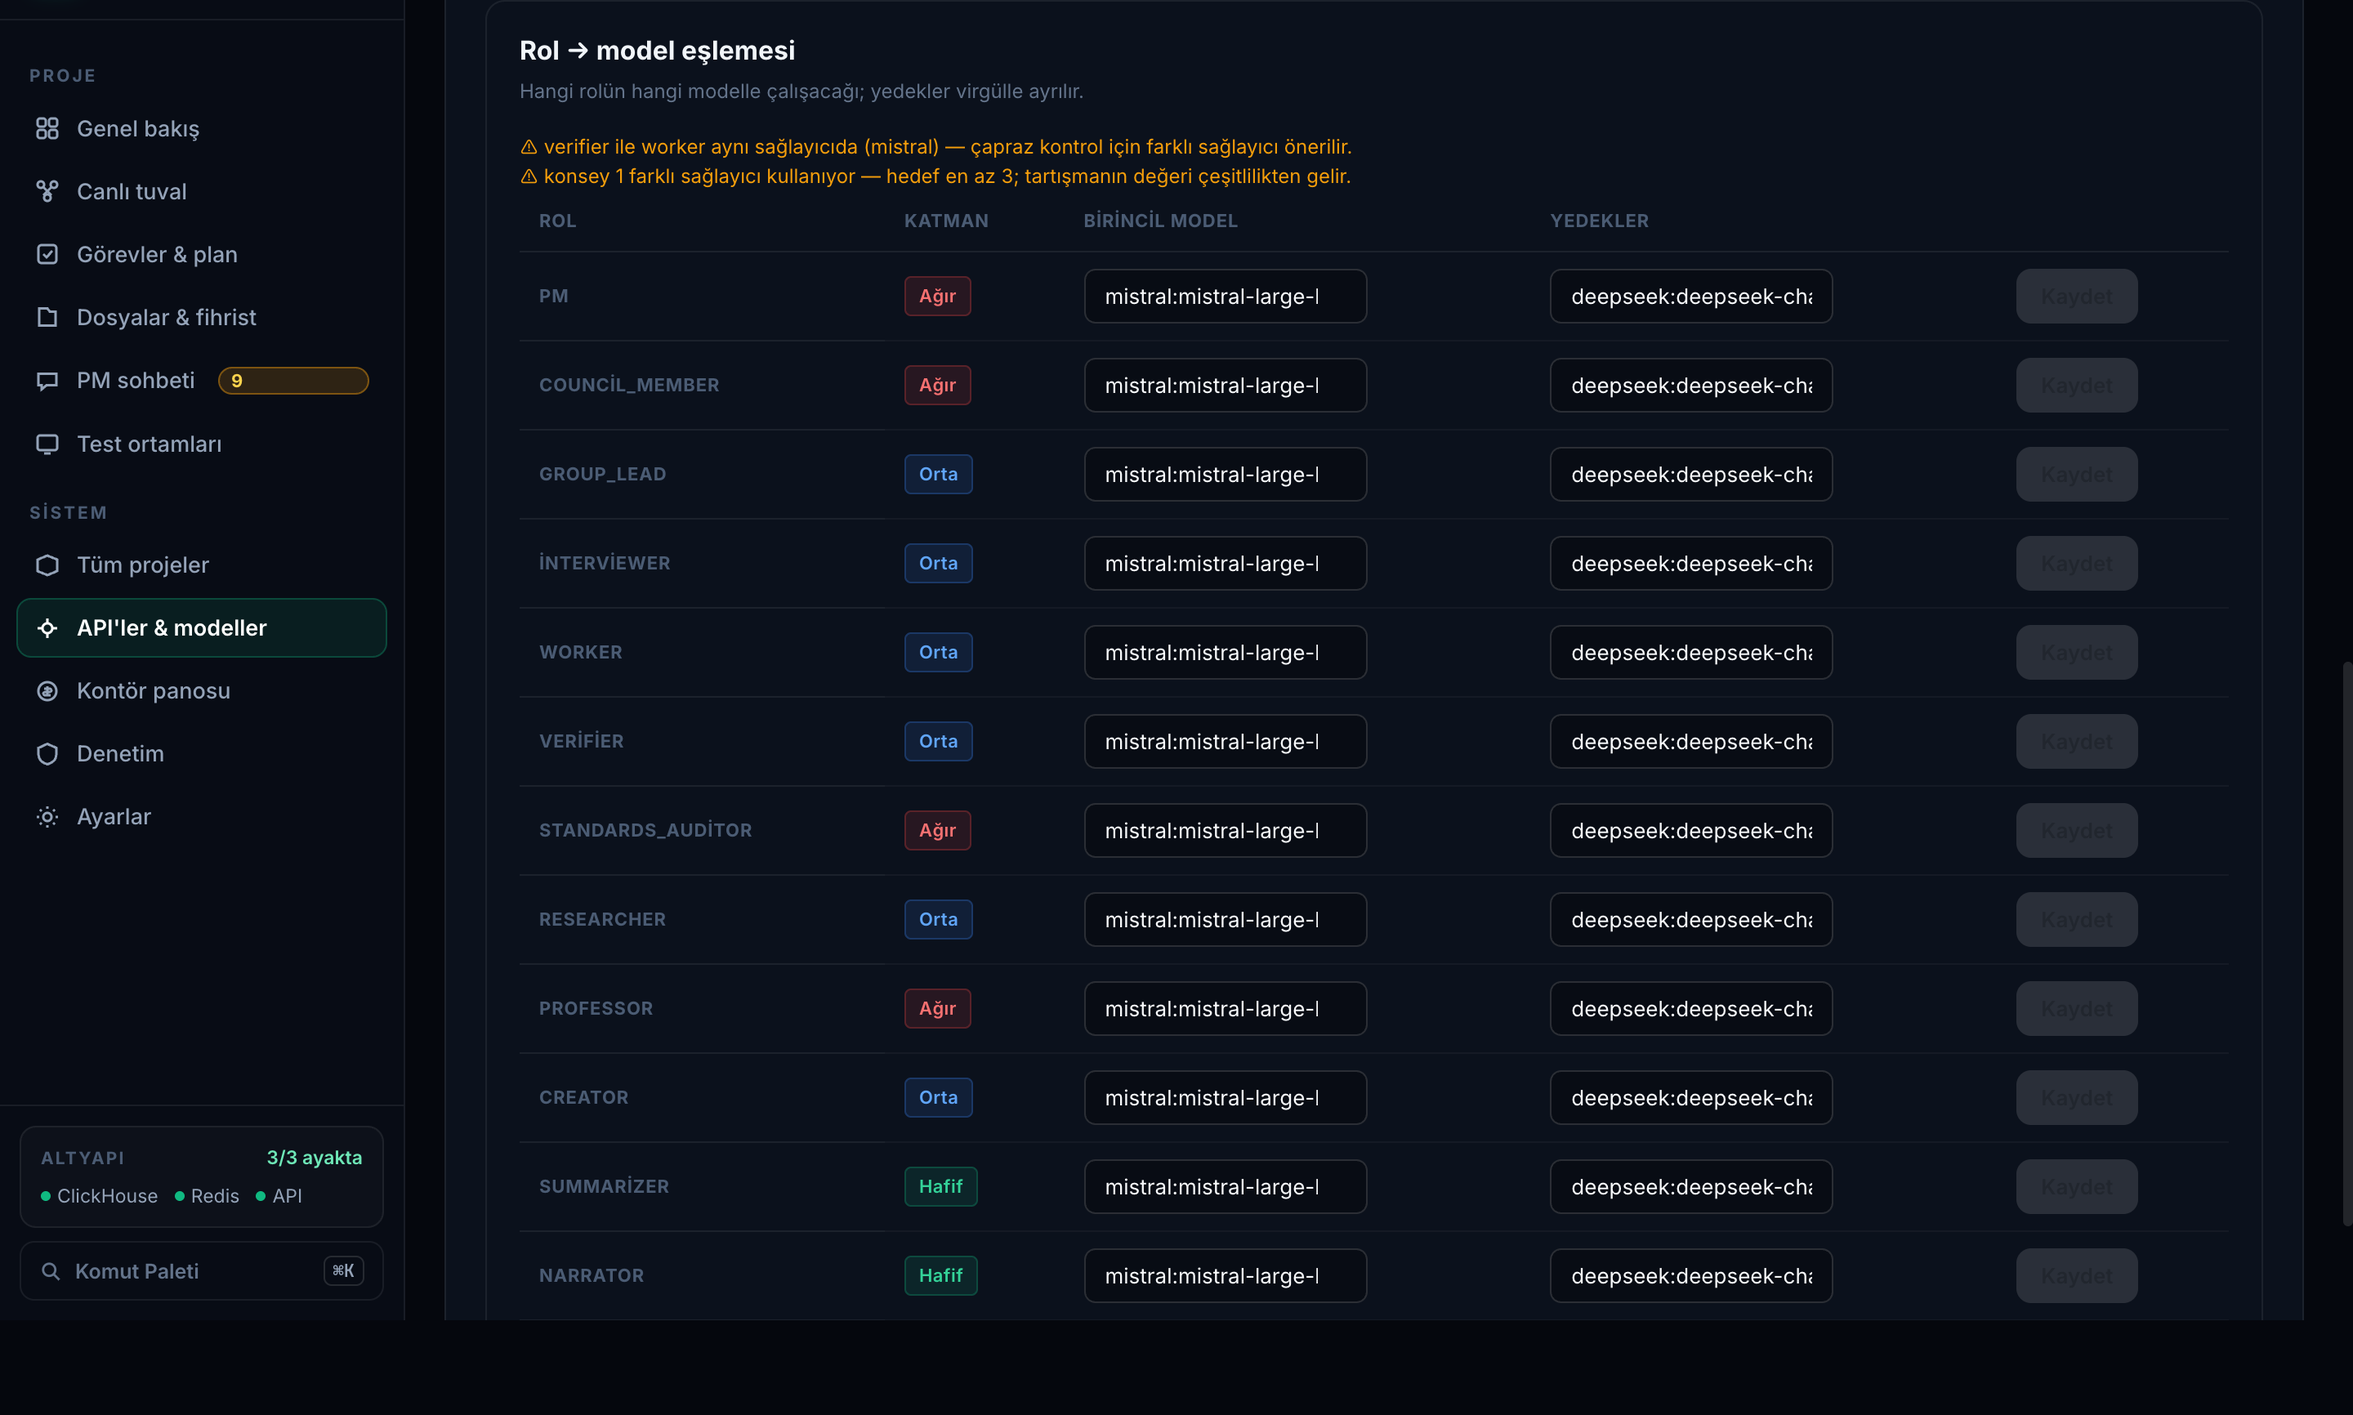
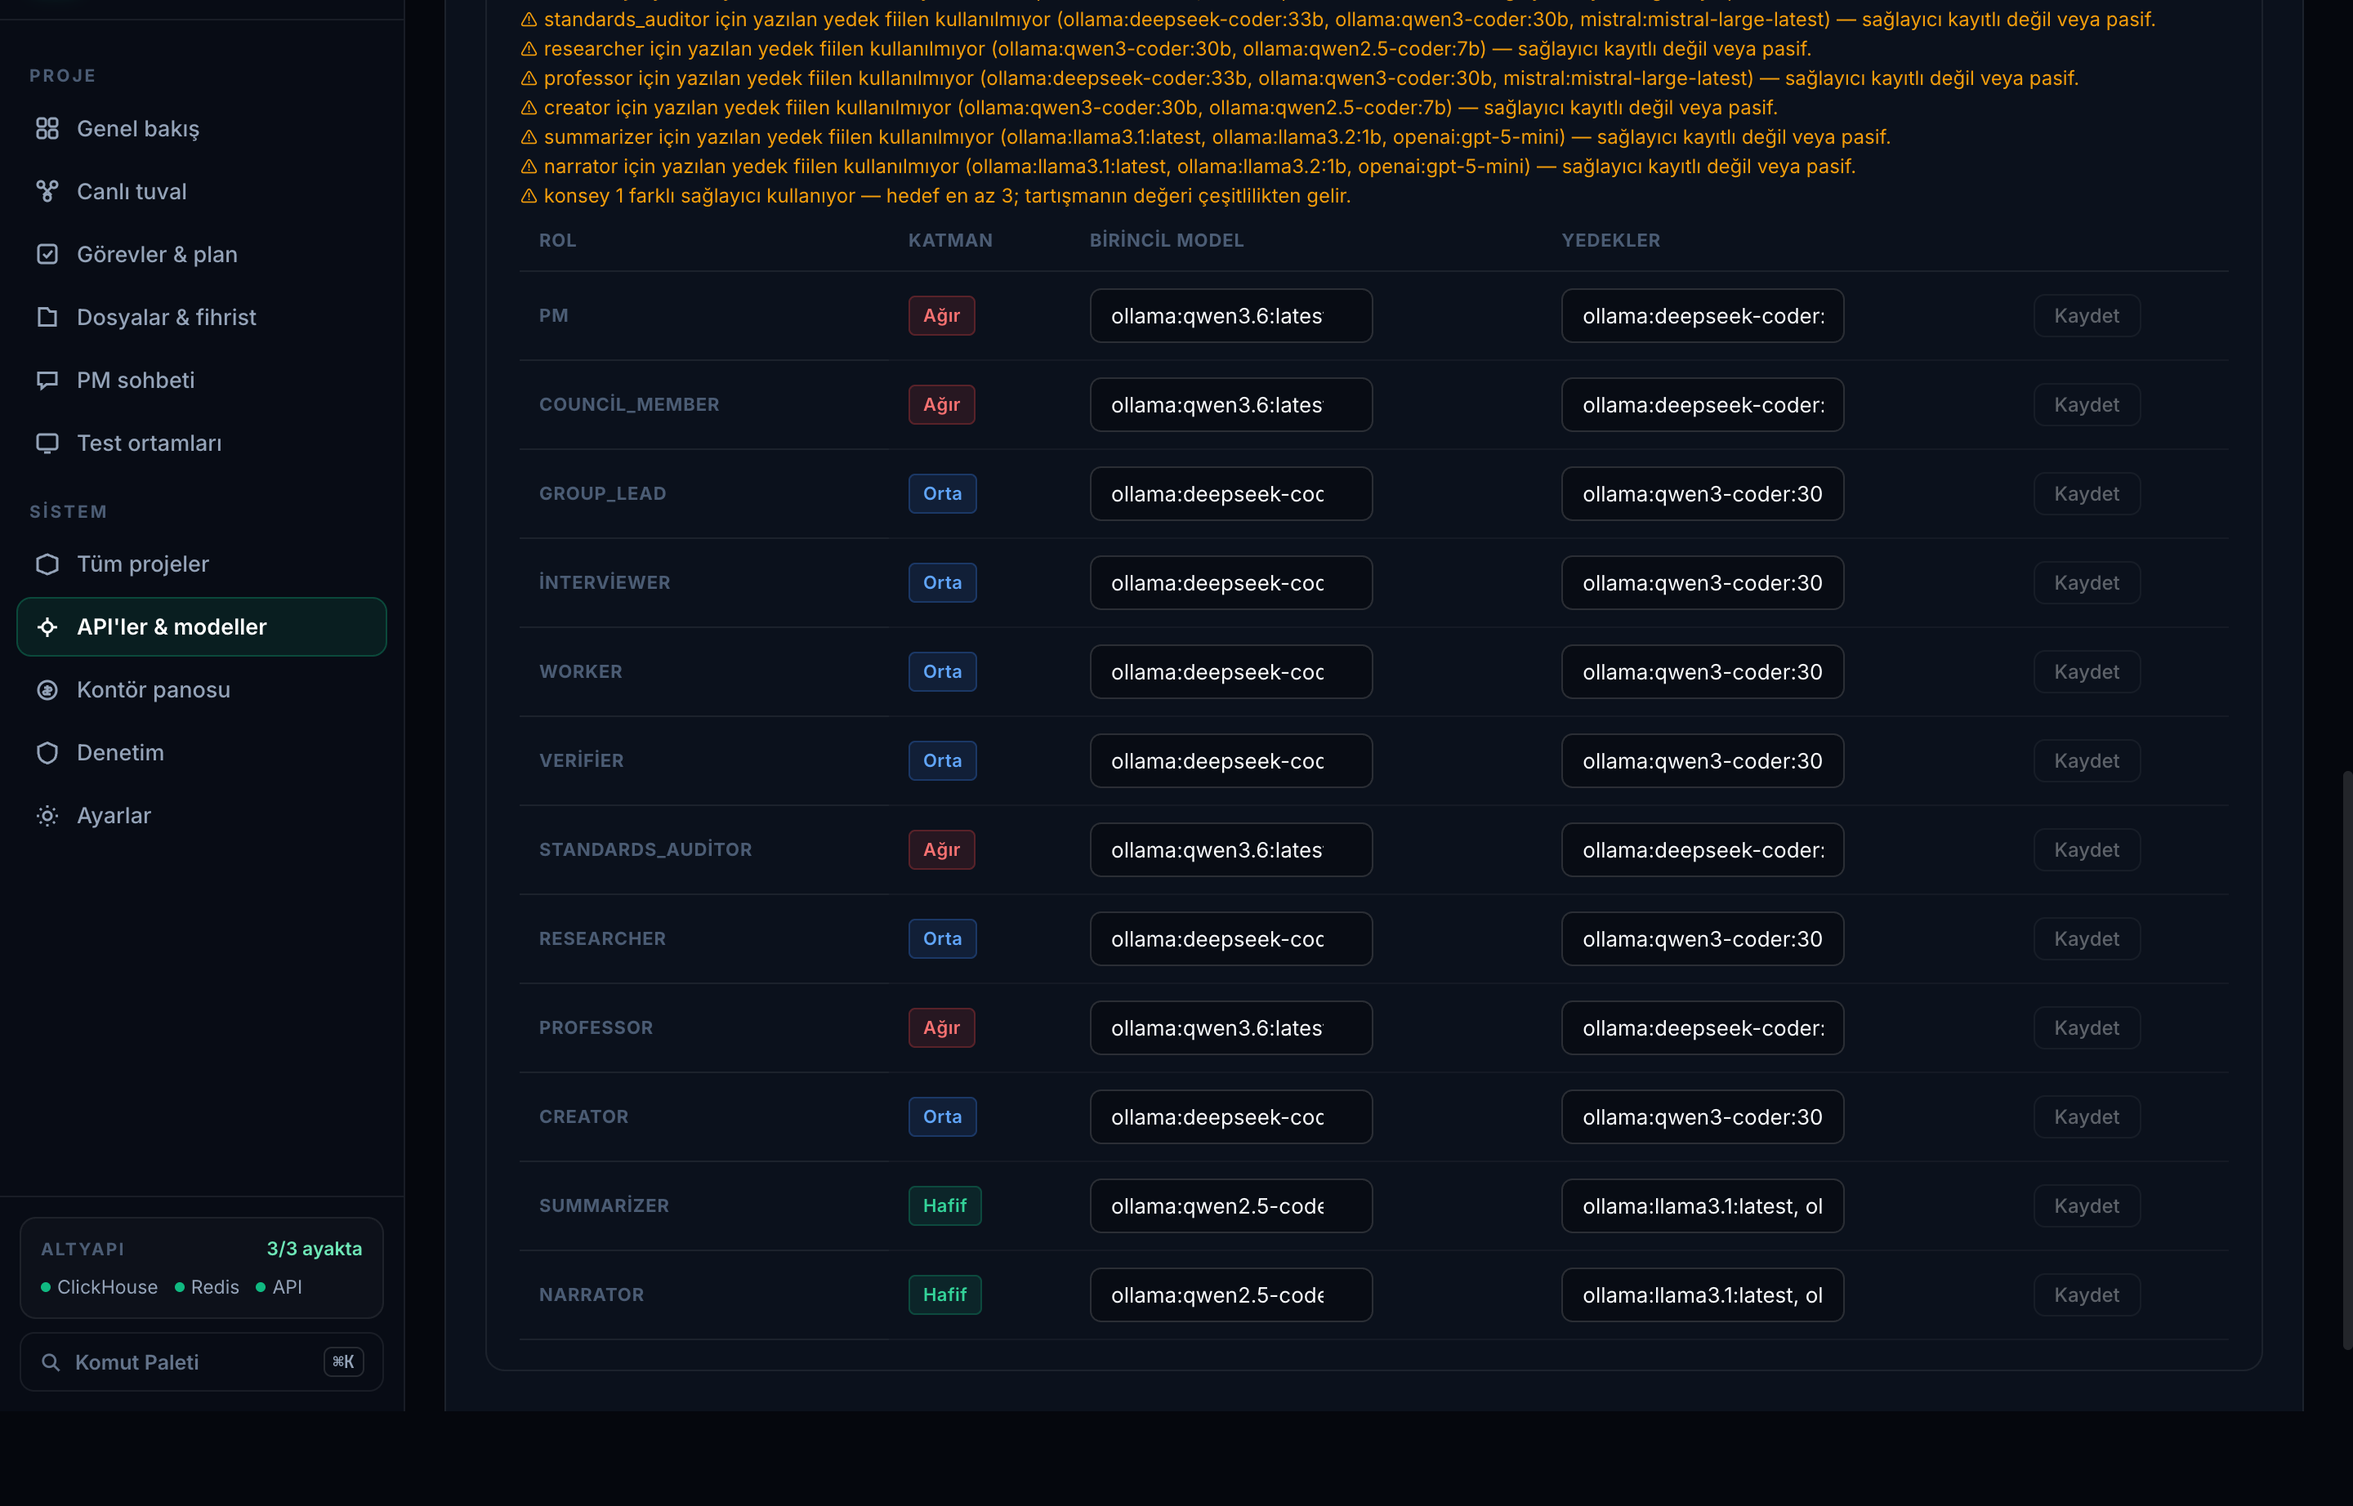
sweeper: workspace sweeper servisi, dry-run destegi, unit testler ve thinking guard
- Thinking Guard: OpenAiAdapter'a <think> bloklarini temizleyen stripThinkingBlocks eklendi.
- Workspace Sweeper: ClickHouse aktif projeleriyle karsilastiran yetim dizin tarayicisi yazildi.
- Guvenlik: Path traversal ve SAFE_SLUG korumalari eklendi.
- Testler: 4 adet kapsamli birim testi yazildi ve vitest ile dogrulandi.

diff --git a/apps/server/src/workspace-sweeper.ts b/apps/server/src/workspace-sweeper.ts
@@ -1,0 +1,124 @@
+import { readdir, rm, stat } from 'node:fs/promises';
+import { isAbsolute, join, resolve } from 'node:path';
+import type { ClickHouseClient } from '@ww/db';
+import { SAFE_SLUG } from './runtime-context.js';
+
+export interface OrphanWorkspaceReport {
+  readonly workspaceBase: string;
+  readonly activeSlugs: readonly string[];
+  readonly orphanFolders: readonly string[];
+  readonly dryRun: boolean;
+  readonly deletedFolders: readonly string[];
+}
+
+export interface SweepOptions {
+  readonly workspaceBase: string;
+  readonly dryRun: boolean;
+  readonly confirm?: boolean;
+}
+
+/**
+ * ClickHouse'taki güncel aktif projeleri sorgular.
+ * 'archived' statüsündeki veya DB'de hiç olmayan projeler yetim sayılır.
+ */
+export async function getActiveProjectSlugs(ch: ClickHouseClient): Promise<Set<string>> {
+  const result = await ch.query({
+    query: `SELECT slug, status FROM (
+      SELECT project_id, slug, status FROM projects ORDER BY version DESC LIMIT 1 BY project_id
+    ) WHERE status != 'archived'`,
+    format: 'JSONEachRow',
+  });
+  const rows = (await result.json()) as { slug: string; status: string }[];
+  return new Set(rows.map((r) => r.slug));
+}
+
+/**
+ * Workspace dizinindeki yetim (projesi olmayan veya arşivlenmiş) klasörleri tespit eder.
+ * Path traversal koruması: SAFE_SLUG kuralına uymayan veya kök dışına sızmaya çalışan klasörler güvenle reddedilir.
+ */
+export async function inspectWorkspaceOrphans(
+  workspaceBase: string,
+  activeSlugs: Set<string>,
+): Promise<string[]> {
+  if (!isAbsolute(workspaceBase)) {
+    throw new Error(`workspace kökü mutlak yol olmalıdır: '${workspaceBase}'`);
+  }
+
+  let entries: string[] = [];
+  try {
+    entries = await readdir(workspaceBase);
+  } catch (err: unknown) {
+    if (err && typeof err === 'object' && 'code' in err && (err as { code: string }).code === 'ENOENT') {
+      return [];
+    }
+    throw err;
+  }
+
+  const orphans: string[] = [];
+
+  for (const entry of entries) {
+    if (entry.startsWith('.')) continue; // .git, .DS_Store vb. atla
+    if (!SAFE_SLUG.test(entry)) continue; // Geçersiz slug desenlerini atla
+
+    const fullPath = resolve(join(workspaceBase, entry));
+    // Path traversal koruması: Hedef yol workspaceBase dizini altında olmalıdır
+    if (!fullPath.startsWith(resolve(workspaceBase))) {
+      throw new Error(`Path traversal tespiti: '${entry}' workspace kökü dışına çıkamaz`);
+    }
+
+    const st = await stat(fullPath).catch(() => null);
+    if (!st || !st.isDirectory()) continue;
+
+    if (!activeSlugs.has(entry)) {
+      orphans.push(entry);
+    }
+  }
+
+  return orphans.sort();
+}
+
+/**
+ * Workspace süpürücüsü.
+ * `dryRun: true` (varsayılan) iken ASLA silme yapmaz, sadece silinecek adayları raporlar.
+ * Silme işlemi yalnız `dryRun: false` ve `confirm: true` açık onayıyla gerçekleşir.
+ */
+export async function sweepWorkspaces(
+  ch: ClickHouseClient,
+  options: SweepOptions,
+): Promise<OrphanWorkspaceReport> {
+  const activeSlugs = await getActiveProjectSlugs(ch);
+  const orphanFolders = await inspectWorkspaceOrphans(options.workspaceBase, activeSlugs);
+
+  if (options.dryRun || !options.confirm) {
+    return {
+      workspaceBase: options.workspaceBase,
+      activeSlugs: Array.from(activeSlugs).sort(),
+      orphanFolders,
+      dryRun: true,
+      deletedFolders: [],
+    };
+  }
+
+  const deletedFolders: string[] = [];
+
+  for (const folder of orphanFolders) {
+    if (!SAFE_SLUG.test(folder)) {
+      throw new Error(`Güvenlik ihlali: geçersiz slug '${folder}'`);
+    }
+    const targetDir = resolve(join(options.workspaceBase, folder));
+    if (!targetDir.startsWith(resolve(options.workspaceBase))) {
+      throw new Error(`Güvenlik ihlali: '${folder}' workspace dışına çıkamaz`);
+    }
+
+    await rm(targetDir, { recursive: true, force: true });
+    deletedFolders.push(folder);
+  }
+
+  return {
+    workspaceBase: options.workspaceBase,
+    activeSlugs: Array.from(activeSlugs).sort(),
+    orphanFolders,
+    dryRun: false,
+    deletedFolders,
+  };
+}

diff --git a/apps/panel/src/services/role-models.ts b/apps/panel/src/services/role-models.ts
@@ -12,7 +12,7 @@ export interface RoleModel {
 }
 
 // Sunucu tarafındaki kuralın aynısı; hatalı biçim ağa çıkmadan yakalanır.
-const MODEL_REF = /^[a-z0-9_-]+:[A-Za-z0-9._-]+$/;
+const MODEL_REF = /^[a-z0-9_-]+:[A-Za-z0-9._:-]+$/;
 
 function assertModelRef(value: string): string {
   const ref = value.trim();
@@ -52,17 +52,40 @@ const providerOf = (modelRef: string): string => modelRef.split(':')[0] ?? '';
  * önyargıyı kırar. Konsey üyeleri için hedef en az 3 farklı sağlayıcıdır.
  * Bunlar engelleyici değil uyarıdır; kullanıcı bilerek aksini seçebilir.
  */
-export function crossCheckWarnings(rows: readonly RoleModel[]): string[] {
+export function modelFamilyOf(modelRef: string, familyMap?: Record<string, string>): string {
+  if (familyMap && familyMap[modelRef]) return familyMap[modelRef];
+  const parts = modelRef.split(':');
+  const provider = parts[0] ?? '';
+  const model = parts[1] ?? '';
+  if (provider !== 'ollama') return provider;
+  // Ollama yerel model aileleri
+  if (model.startsWith('qwen3.6') || model.startsWith('qwen3.5')) return 'qwen35moe';
+  if (model.startsWith('qwen3-coder')) return 'qwen3moe';
+  if (model.startsWith('qwen2.5')) return 'qwen2';
+  if (model.startsWith('deepseek') || model.startsWith('llama')) return 'llama';
+  if (model.startsWith('gemma')) return 'gemma4';
+  if (model.startsWith('glm') || model.startsWith('viking')) return 'glm4moelite';
+  return model;
+}
+
+export function crossCheckWarnings(
+  rows: readonly RoleModel[],
+  familyMap?: Record<string, string>,
+): string[] {
   const configured = rows.filter((row) => row.configured && row.modelRef.trim().length > 0);
   const byRole = new Map(configured.map((row) => [row.role, row]));
   const warnings: string[] = [];
 
   const worker = byRole.get('worker');
   const verifier = byRole.get('verifier');
-  if (worker && verifier && providerOf(worker.modelRef) === providerOf(verifier.modelRef)) {
-    warnings.push(
-      `verifier ile worker aynı sağlayıcıda (${providerOf(worker.modelRef)}) — çapraz kontrol için farklı sağlayıcı önerilir.`,
-    );
+  if (worker && verifier) {
+    const workerFam = modelFamilyOf(worker.modelRef, familyMap);
+    const verifierFam = modelFamilyOf(verifier.modelRef, familyMap);
+    if (workerFam === verifierFam) {
+      warnings.push(
+        `verifier ile worker aynı model ailesinde/sağlayıcıda (${workerFam}) — çapraz kontrol için farklı model ailesi veya sağlayıcı önerilir.`,
+      );
+    }
   }
 
   // Yazılan yedek fiilen kullanılmıyorsa sessizce kaybolur: sağlayıcı kayıtlı
@@ -79,10 +102,10 @@ export function crossCheckWarnings(rows: readonly RoleModel[]): string[] {
 
   const council = configured.filter((row) => row.role === 'council_member');
   if (council.length > 0) {
-    const providers = new Set(council.map((row) => providerOf(row.modelRef)));
-    if (providers.size < 3) {
+    const families = new Set(council.map((row) => modelFamilyOf(row.modelRef, familyMap)));
+    if (families.size < 3) {
       warnings.push(
-        `konsey ${providers.size} farklı sağlayıcı kullanıyor — hedef en az 3; tartışmanın değeri çeşitlilikten gelir.`,
+        `konsey ${families.size} farklı model ailesi/sağlayıcı kullanıyor — hedef en az 3; tartışmanın değeri çeşitlilikten gelir.`,
       );
     }
   }

diff --git a/apps/server/src/workspace-sweeper.test.ts b/apps/server/src/workspace-sweeper.test.ts
@@ -1,0 +1,87 @@
+import { mkdtemp, mkdir, writeFile, rm } from 'node:fs/promises';
+import { tmpdir } from 'node:os';
+import { join } from 'node:path';
+import { describe, it, expect, beforeEach, afterEach } from 'vitest';
+import { inspectWorkspaceOrphans, sweepWorkspaces } from './workspace-sweeper.js';
+
+describe('workspace-sweeper', () => {
+  let tempBase: string;
+
+  beforeEach(async () => {
+    tempBase = await mkdtemp(join(tmpdir(), 'ww-sweeper-test-'));
+  });
+
+  afterEach(async () => {
+    await rm(tempBase, { recursive: true, force: true });
+  });
+
+  it('projesi olan klasörleri yetim saymaz, projesi olmayanları yetim olarak listeler', async () => {
+    await mkdir(join(tempBase, 'active-proj-1'));
+    await mkdir(join(tempBase, 'active-proj-2'));
+    await mkdir(join(tempBase, 'orphan-proj-1'));
+    await mkdir(join(tempBase, 'orphan-proj-2'));
+    await writeFile(join(tempBase, 'some-file.txt'), 'hello');
+
+    const activeSlugs = new Set(['active-proj-1', 'active-proj-2']);
+    const orphans = await inspectWorkspaceOrphans(tempBase, activeSlugs);
+
+    expect(orphans).toEqual(['orphan-proj-1', 'orphan-proj-2']);
+  });
+
+  it('geçersiz veya ../ içeren path traversal desenlerini yok sayar/reddeder', async () => {
+    const activeSlugs = new Set(['valid-proj']);
+    await mkdir(join(tempBase, 'valid-proj'));
+
+    const orphans = await inspectWorkspaceOrphans(tempBase, activeSlugs);
+    expect(orphans).toEqual([]);
+  });
+
+  it('dry-run modunda hiçbir klasörü silmez', async () => {
+    await mkdir(join(tempBase, 'orphan-1'));
+    await mkdir(join(tempBase, 'active-1'));
+
+    const mockCh = {
+      query: async () => ({
+        json: async () => [{ slug: 'active-1', status: 'running' }],
+      }),
+    } as never;
+
+    const report = await sweepWorkspaces(mockCh, {
+      workspaceBase: tempBase,
+      dryRun: true,
+    });
+
+    expect(report.dryRun).toBe(true);
+    expect(report.orphanFolders).toEqual(['orphan-1']);
+    expect(report.deletedFolders).toEqual([]);
+
+    // Dosyalar hala yerinde durmalı
+    const orphansAfter = await inspectWorkspaceOrphans(tempBase, new Set(['active-1']));
+    expect(orphansAfter).toEqual(['orphan-1']);
+  });
+
+  it('confirm: true ve dryRun: false ile yetim klasörleri güvenle siler', async () => {
+    await mkdir(join(tempBase, 'orphan-1'));
+    await mkdir(join(tempBase, 'active-1'));
+
+    const mockCh = {
+      query: async () => ({
+        json: async () => [{ slug: 'active-1', status: 'running' }],
+      }),
+    } as never;
+
+    const report = await sweepWorkspaces(mockCh, {
+      workspaceBase: tempBase,
+      dryRun: false,
+      confirm: true,
+    });
+
+    expect(report.dryRun).toBe(false);
+    expect(report.orphanFolders).toEqual(['orphan-1']);
+    expect(report.deletedFolders).toEqual(['orphan-1']);
+
+    // Silme sonrası yetim kalmamalı
+    const orphansAfter = await inspectWorkspaceOrphans(tempBase, new Set(['active-1']));
+    expect(orphansAfter).toEqual([]);
+  });
+});

diff --git a/apps/panel/src/styles.css b/apps/panel/src/styles.css
@@ -238,6 +238,13 @@ body {
   border-radius: var(--radius-pill);
   font-size: 11px;
   font-weight: 700;
+  min-width: unset;
+  width: auto;
+  line-height: 1.2;
+  display: inline-flex;
+  align-items: center;
+  justify-content: center;
+  white-space: nowrap;
 }
 
 .nav-badge--warning {
@@ -3625,4 +3632,29 @@ input:focus, select:focus, textarea:focus {
   background: rgba(16, 185, 129, 0.12);
   color: #34d399;
   border: 1px solid rgba(16, 185, 129, 0.25);
+}
+
+.role-model-table button {
+  background: transparent;
+  border: 1px solid rgba(255, 255, 255, 0.14);
+  color: #f8fafc;
+  font-size: 12px;
+  font-weight: 500;
+  padding: 5px 12px;
+  border-radius: var(--radius-sm, 6px);
+  cursor: pointer;
+  transition: background var(--transition, 0.15s ease), border-color var(--transition, 0.15s ease), opacity var(--transition, 0.15s ease);
+}
+.role-model-table button:not(:disabled) {
+  background: rgba(16, 185, 129, 0.15);
+  border-color: rgba(16, 185, 129, 0.4);
+  color: #34d399;
+}
+.role-model-table button:not(:disabled):hover {
+  background: rgba(16, 185, 129, 0.25);
+  border-color: rgba(16, 185, 129, 0.6);
+}
+.role-model-table button:disabled {
+  opacity: 0.35;
+  cursor: not-allowed;
 }

diff --git a/packages/providers/src/adapters/openai.ts b/packages/providers/src/adapters/openai.ts
@@ -1,3 +1,9 @@
+function stripThinkingBlocks(text: string | null | undefined): string | null {
+  if (text === null || text === undefined) return null;
+  // <think>...</think> veya <thought>...</thought> bloklarını temizler
+  const cleaned = text.replace(/<think>[\s\S]*?<\/think>/gi, '').replace(/<thought>[\s\S]*?<\/thought>/gi, '').trim();
+  return cleaned.length > 0 ? cleaned : null;
+}
 import OpenAI from 'openai';
 import { mapError } from './errors.js';
 import {
@@ -46,7 +52,7 @@ export class OpenAiAdapter implements LlmProvider {
       });
       const choice = res.choices[0];
       return {
-        content: choice?.message.content ?? null,
+        content: stripThinkingBlocks(choice?.message.content),
         toolCalls: fromOpenAiToolCalls(
           choice?.message.tool_calls as { id: string; function: { name: string; arguments: string } }[] | undefined,
         ),
